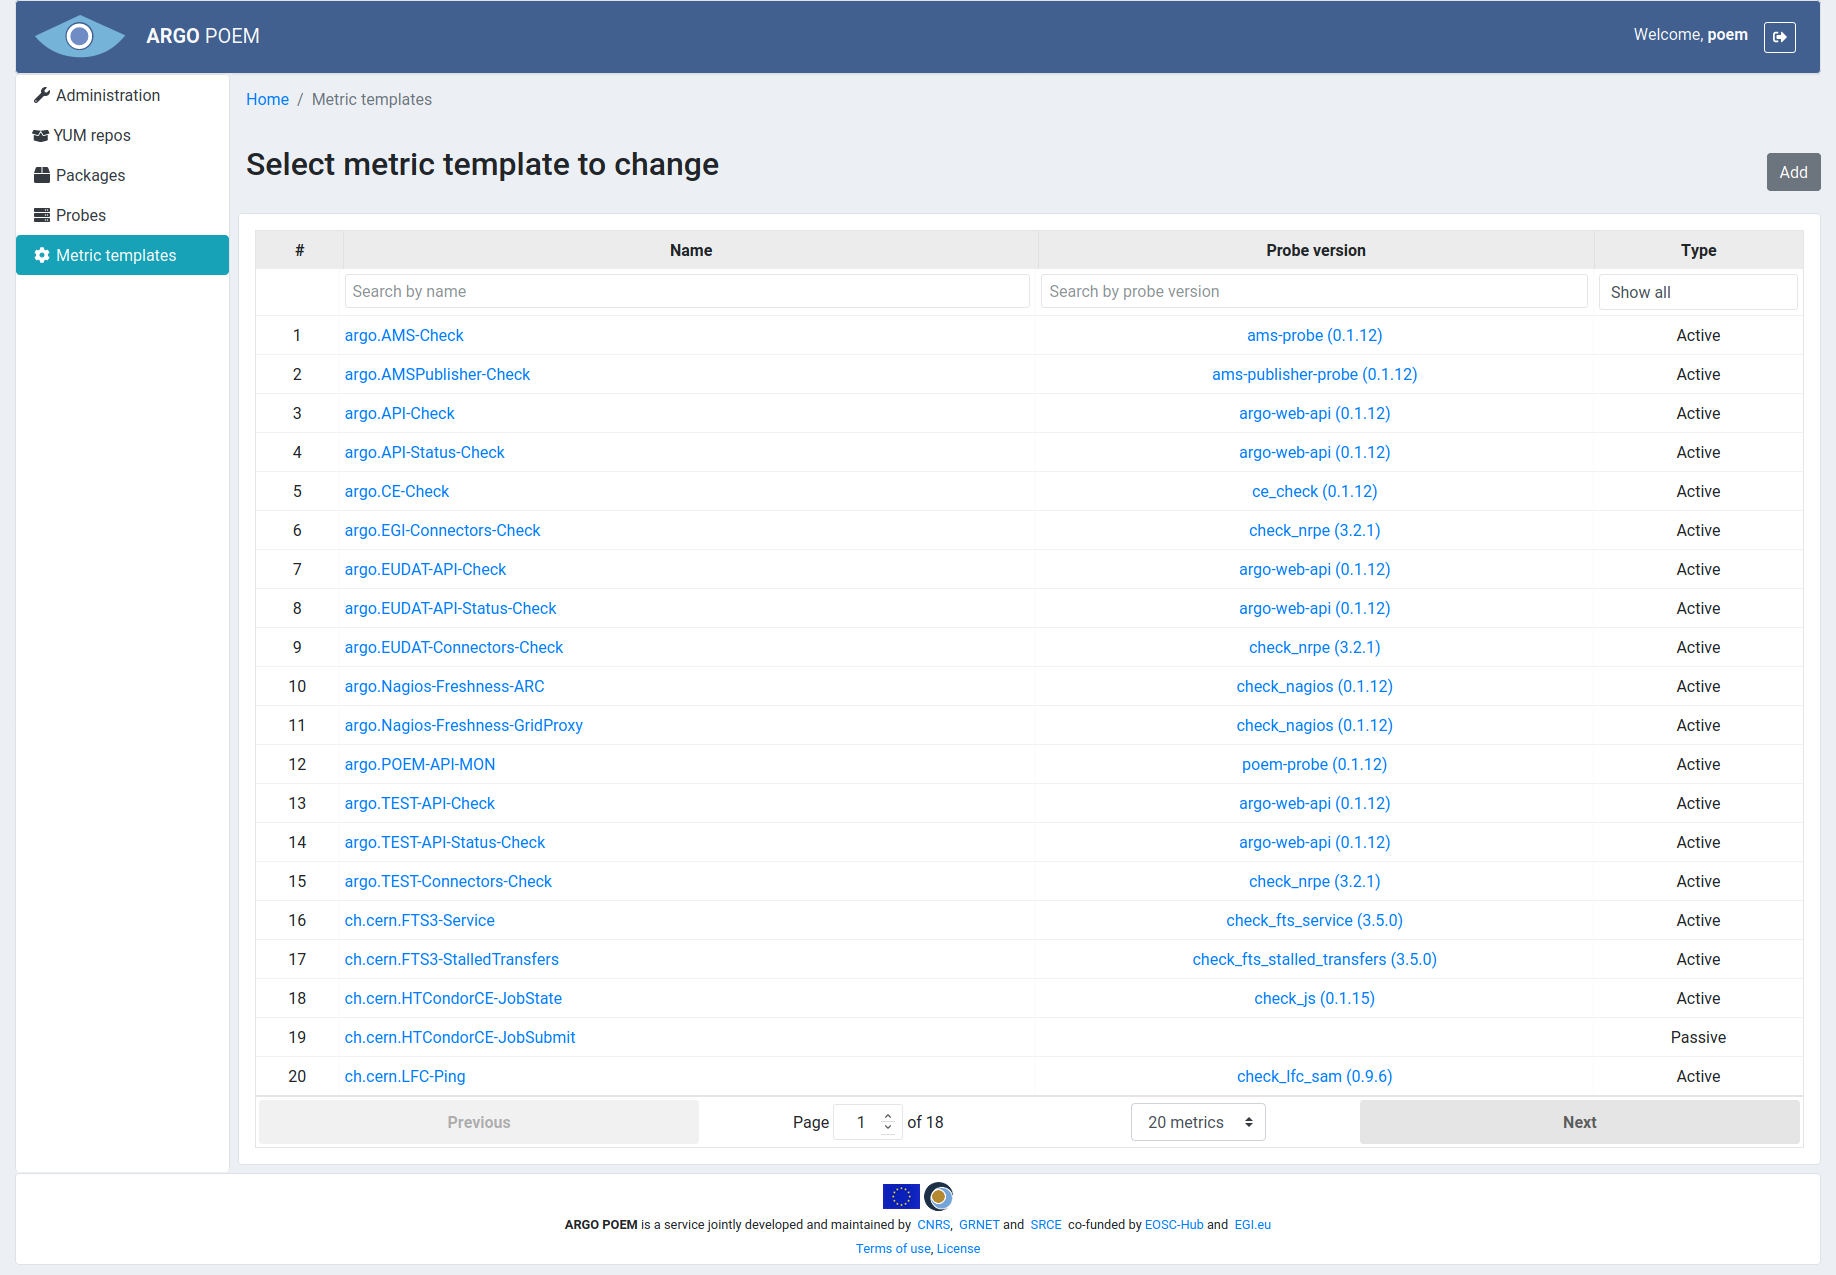
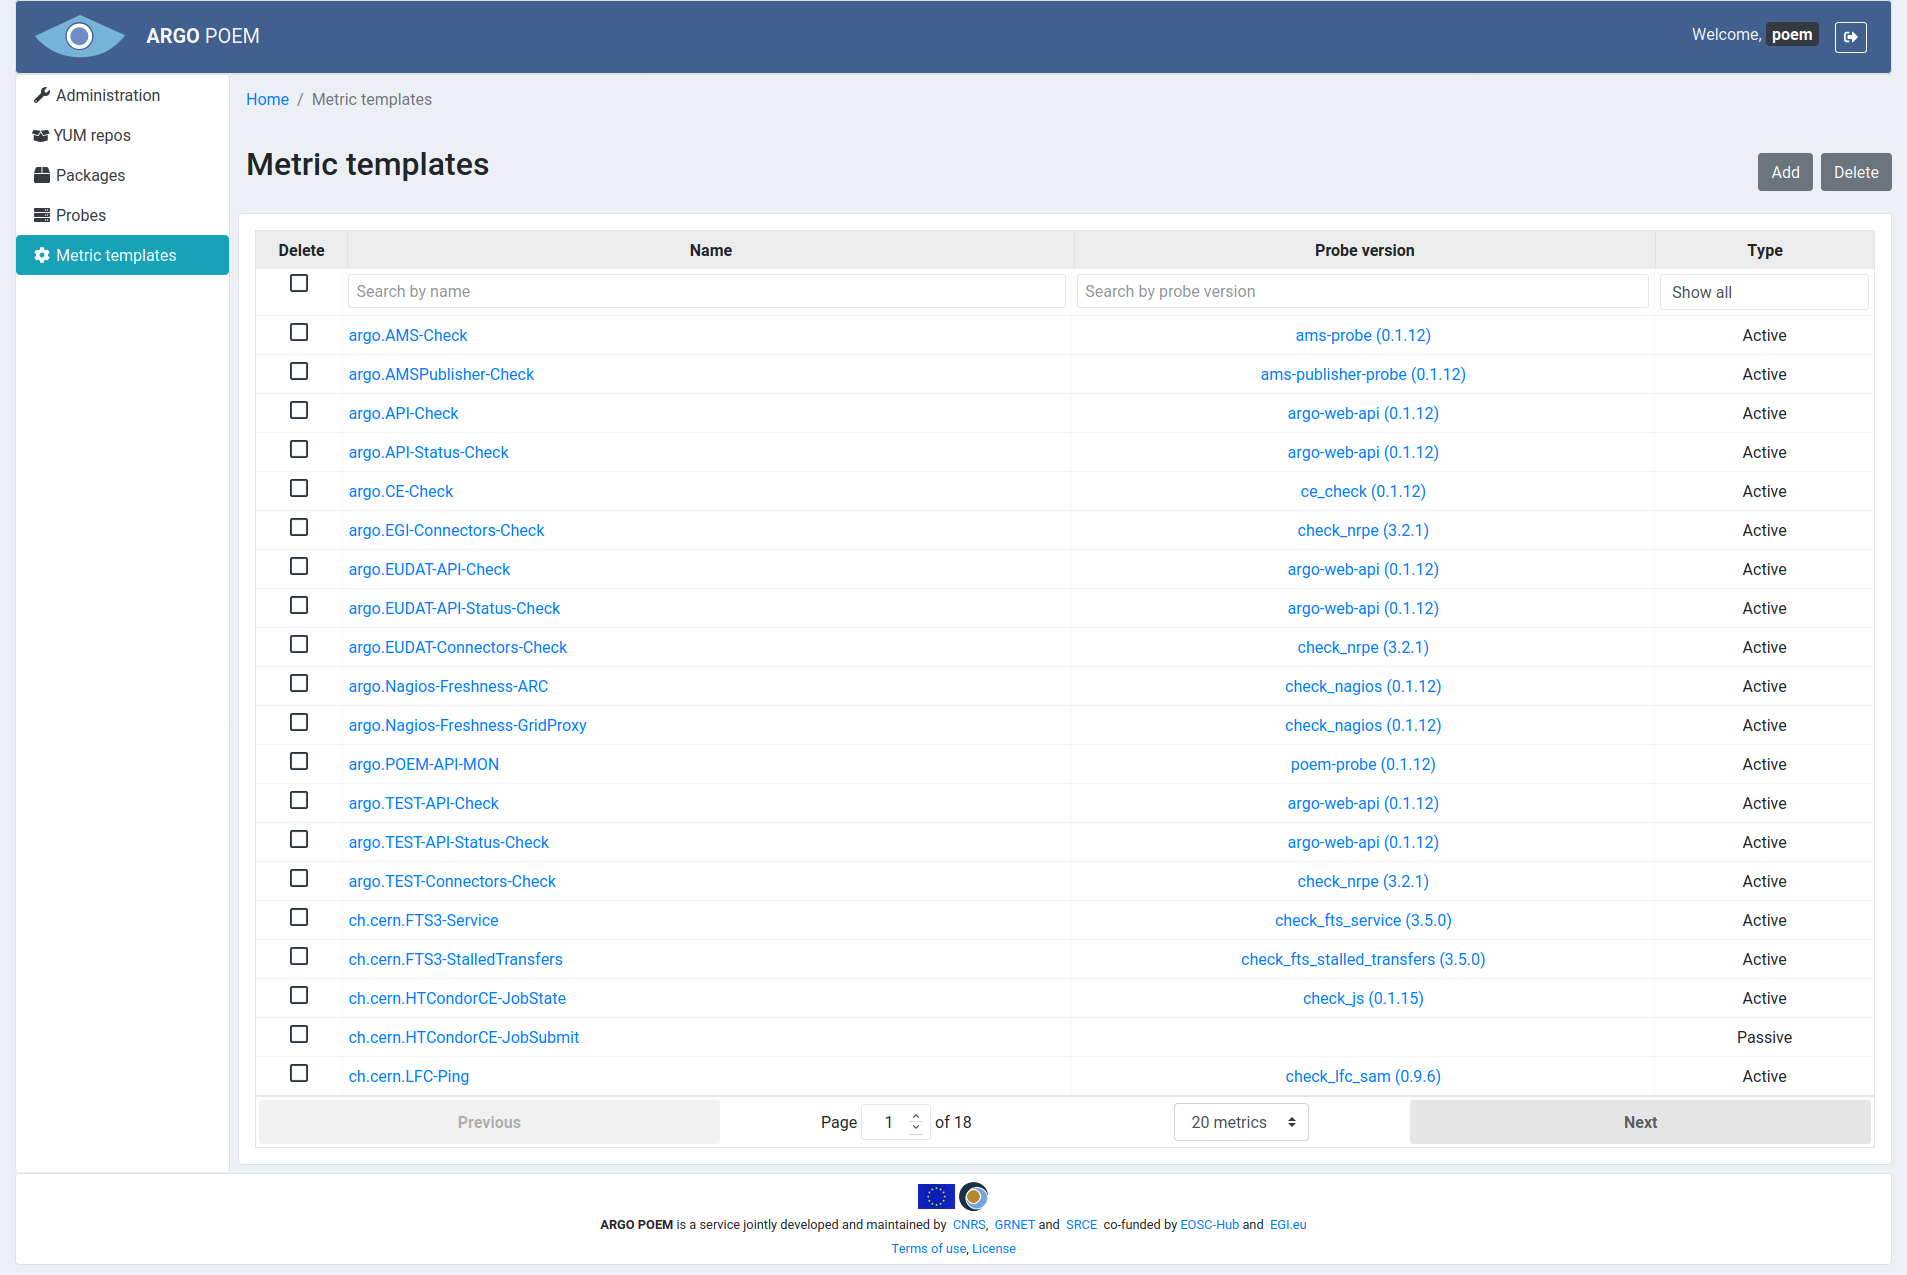
Update docs

diff --git a/poem/v1/superadmin_metric_templates/index.html b/poem/v1/superadmin_metric_templates/index.html
@@ -210,6 +210,10 @@
 <p>Metric templates page is accessible from the menu on the left side. The page is shown in the image below.</p>
 <p><img alt="SuperAdmin metric templates" src="../figures/superadmin_metric_template.png" /></p>
 <p>Metric templates may be filtered by name, probe, and tag (active or passive). By clicking on the metric template name, user can access particular metric template page. It is also possible to access particular probe version by clicking on its name.</p>
+<p>There is also a feature to delete multiple metric templates at once. For that, user may select metrics (s)he wishes to delete from POEM, and click on <strong>Delete</strong> button (shown in figure below). </p>
+<p><img alt="SuperAdmin metric template bulk delete" src="../figures/superadmin_metric_template_bulk_delete.png" /></p>
+<p>User will then be asked if (s)he is sure (s)he wants to delete selected metrics. Once the user confirms his/her selection, metric templates and their histories are deleted. Also, metrics imported to tenants and their histories are also deleted, and they are removed from metric profiles. User will be informed of successful deletion of metric templates (figure below). Also, in case of any error, user will be informed the same way.</p>
+<p><img alt="SuperAdmin metric template deleted" src="../figures/superadmin_metric_template_deleted.png" /></p>
 <h2 id="metric-template-details">Metric template details</h2>
 <p>Depending on metric template type, pages for particular metric templates are a bit different. Active metric template must have a probe assigned to it, while passive metric template does not.</p>
 <h3 id="active-metric-templates">Active metric templates</h3>

diff --git a/api/v2/site/index.html b/api/v2/site/index.html
@@ -244,5 +244,5 @@
 
 <!--
 MkDocs version : 1.0.4
-Build Date UTC : 2020-07-15 16:56:37
+Build Date UTC : 2020-08-04 11:00:28
 -->

diff --git a/messaging/v1/index.html b/messaging/v1/index.html
@@ -267,5 +267,5 @@
 
 <!--
 MkDocs version : 1.0.4
-Build Date UTC : 2020-07-15 16:56:37
+Build Date UTC : 2020-08-04 11:00:28
 -->
